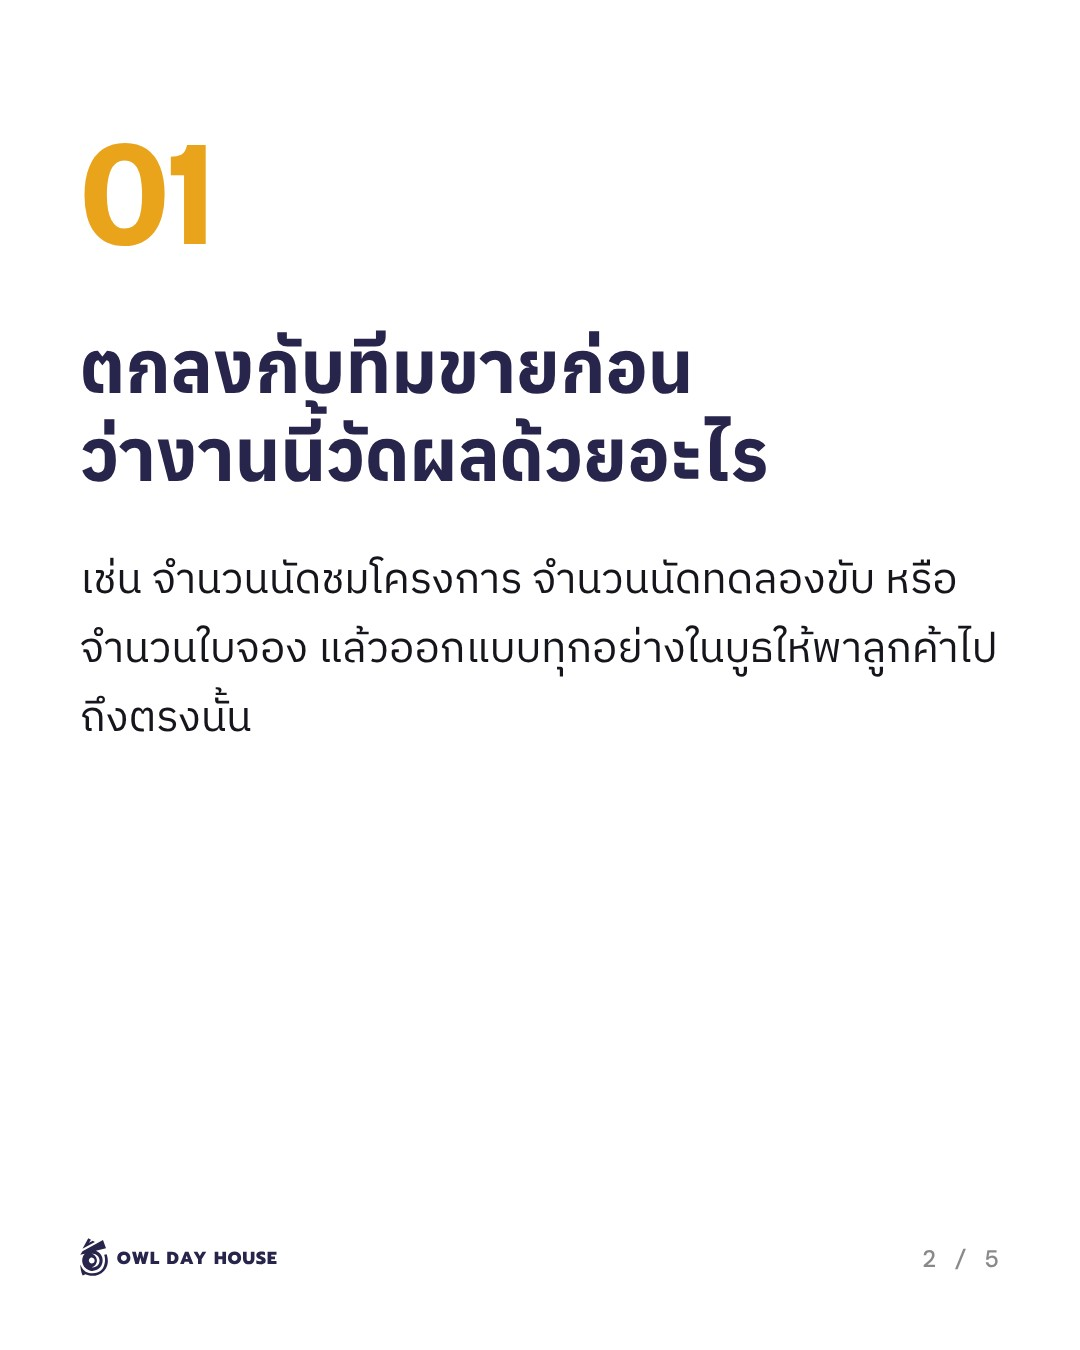
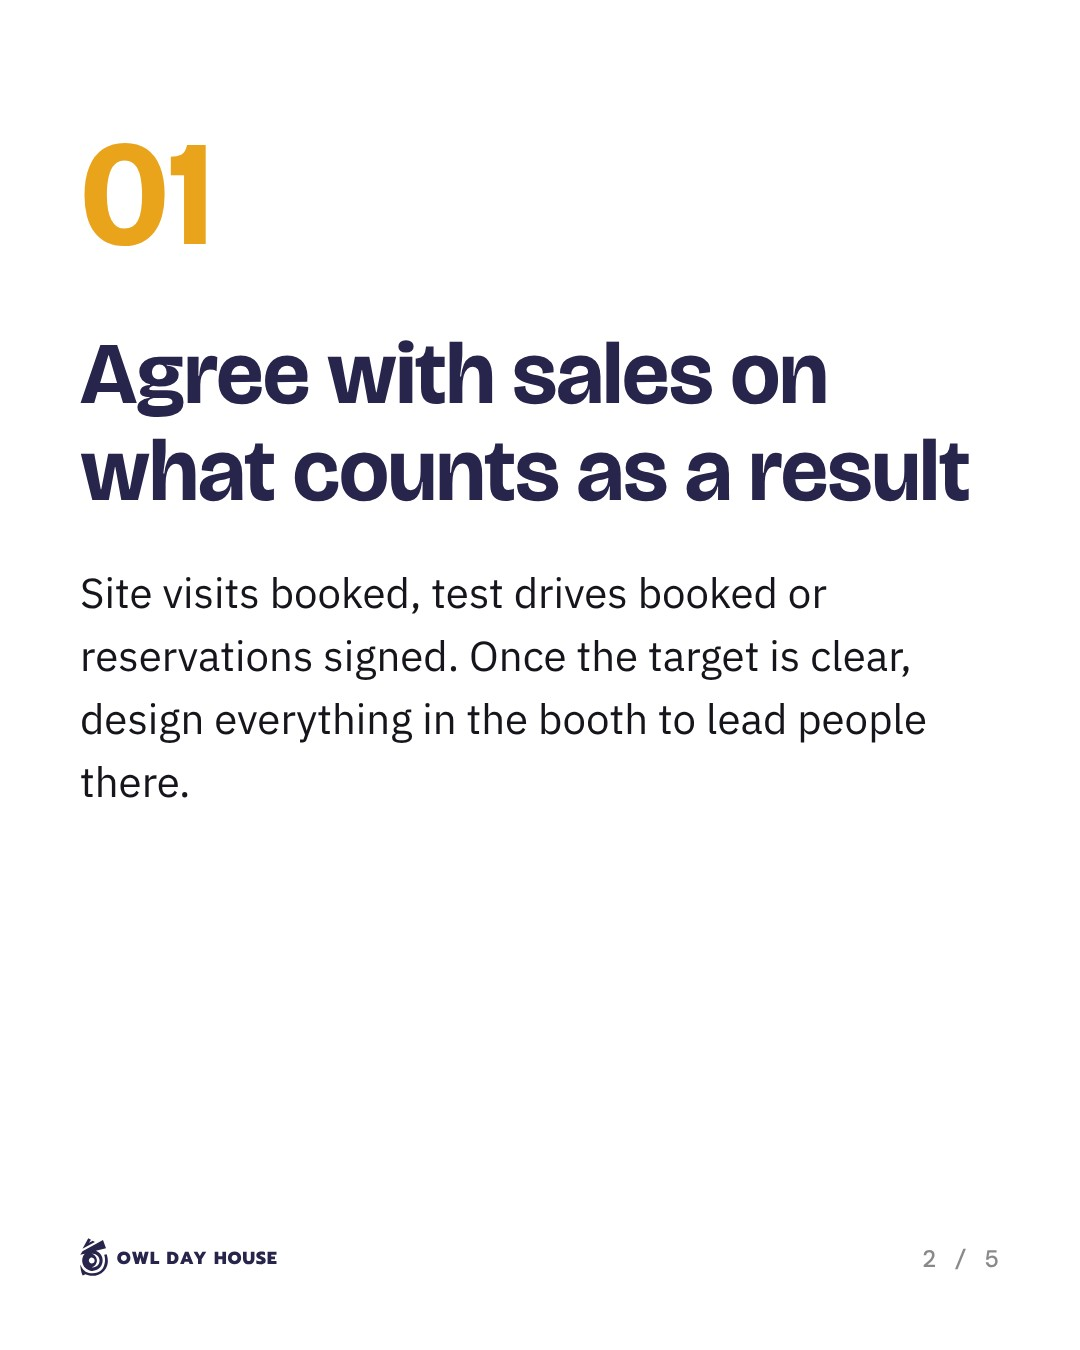
docs(social): switch the 9 Nov post to English
The slides and captions are now in English. The Thai article has no English
version, so the post links to the English Property & Automotive page, which
covers the same topic.

Claude-Session: https://claude.ai/code/session_01R7rnnCN1Fzr3dEfJVvH5fp

Changed region(s): [[0.0611, 0.4044, 0.9167, 0.5911], [0.0611, 0.2489, 0.9167, 0.3733], [0.825, 0.4044, 0.8861, 0.4356]]

diff --git a/social/2026-11-09/post.md b/social/2026-11-09/post.md
@@ -1,44 +1,45 @@
-# Post 9 Nov 2026: getting launch-event leads to sales on the day
+# Post 9 Nov 2026 (English): getting launch-event leads to sales on the day
 
 From today's article: /news/ngan-poet-tua-khrongkan-song-lead-sales/
 Images: `slide-1.jpg` to `slide-5.jpg` (1080×1350, 4:5). The same set works on Facebook (album/carousel) and on Instagram (carousel).
 The photo on slide 1 is the AI-made atmosphere photo from the article's share card. It shows no client and no real job, so do not caption it as our own work.
 
-Check that the article is already live on owldayhouse.com before posting the link.
+The Thai article has no English version, so the English post links to the Property & Automotive page, which covers the same topic: https://owldayhouse.com/en/industries/property-auto/
+Check that the page is live before posting.
 
 ---
 
 ## Facebook
 
-งานเปิดตัวโครงการหรือบูธในงาน Motor Show มีคนแวะเยอะ แต่รายชื่อที่ได้กว่าจะถึงมือเซลส์บางทีก็ผ่านไปเป็นสัปดาห์ ถึงตอนนั้นลูกค้าบางคนไปดูโครงการอื่นหรือจองรถกับดีลเลอร์อื่นไปแล้ว
+A project launch or a Motor Show booth can draw a big crowd. The leads often take a week to reach the sales team, and by then some of those people have visited another project or booked a car with another dealer.
 
-เวลาวางงานแบบนี้ ทีมเราดู 4 เรื่อง
+When we plan an event like this, we look at four things.
 
-1. ตกลงกับทีมขายก่อนว่างานนี้วัดผลด้วยอะไร เช่น จำนวนนัดชมโครงการ นัดทดลองขับ หรือใบจอง
-2. ใช้เกมบน Kiosk หรือการสุ่มรางวัลให้คนหยุดที่บูธ แล้วให้ลงทะเบียนเป็นส่วนหนึ่งของการเล่น
-3. ส่งรายชื่อเข้าระบบฝ่ายขายระหว่างงาน คนที่อยากนัดควรได้คุยกับเซลส์ในวันนั้น
-4. เก็บรายชื่อไว้ในระบบเดียวกับข้อมูลการขาย จะได้รู้ว่างานนี้ได้นัดเท่าไร ปิดการขายได้เท่าไร
+1. Agree with sales on what counts as a result: site visits booked, test drives booked or reservations signed.
+2. Use a kiosk game or a prize draw to get people to stop, and make sign-up part of playing.
+3. Send leads to the sales team during the event. Anyone who wants an appointment should hear from sales that day.
+4. Keep event leads in the same system as your sales data, so you can see how many appointments the event brought in and how many closed.
 
-อ่านฉบับเต็มได้ที่ https://owldayhouse.com/news/ngan-poet-tua-khrongkan-song-lead-sales/
+How we run launches and booths for property and automotive brands: https://owldayhouse.com/en/industries/property-auto/
 
-ถ้ากำลังวางงานเปิดตัวหรือบูธรอบหน้า ทักมาทาง Messenger หรือโทร 092-455-2450
+Planning your next launch or booth? Message us on Messenger or call +66 92 455 2450.
 
-#งานเปิดตัวโครงการ #บูธอีเวนต์ #MotorShow #OwlDayHouse
+#EventMarketing #ProjectLaunch #MotorShow #OwlDayHouse
 
 ---
 
 ## Instagram
 
-งานเปิดตัวโครงการหรือบูธ Motor Show คนแวะเยอะ แต่รายชื่อกว่าจะถึงมือเซลส์บางทีก็เป็นสัปดาห์ ถึงตอนนั้นลูกค้าบางคนตัดสินใจไปแล้ว
+A project launch or a Motor Show booth can draw a big crowd, but the leads often take a week to reach sales. By then some people have already decided.
 
-ปัดดู 4 เรื่องที่ทีมเราวางไว้ตั้งแต่ก่อนวันงาน ให้รายชื่อถึงเซลส์ภายในวันนั้น และวัดผลเป็นยอดขายได้
+Swipe for the four things we set up before the event, so leads reach sales the same day and the event can be measured in sales.
 
-อ่านบทความเต็มได้จากลิงก์ที่ bio
-ทัก DM หรือโทร 092-455-2450
+More on how we run launches and booths: link in bio.
+Send us a DM or call +66 92 455 2450.
 
-#งานเปิดตัวโครงการ #บูธอีเวนต์ #MotorShow #อีเวนต์มาร์เก็ตติ้ง #OwlDayHouse
+#EventMarketing #ProjectLaunch #MotorShow #ExperientialMarketing #OwlDayHouse
 
-Alt text for slide 1: ผู้คนในชุดทำงานยืนดูโมเดลอาคารในห้องจัดงานสีขาว พร้อมหัวข้อ รายชื่อลูกค้าจากงาน ควรถึงมือเซลส์ภายในวันงาน
+Alt text for slide 1: People in business clothes looking at an architectural model in a bright white event hall, with the headline "Get event leads to your sales team on the day".
 
 ---
 
@@ -79,6 +80,6 @@ Bangkok, Thailand
 ```
 
 **Link:** https://owldayhouse.com/en/
-On today's post day, swap the link to the article for 24 to 48 hours, then switch it back.
+For today's post, point the link to https://owldayhouse.com/en/industries/property-auto/ for 24 to 48 hours, then switch it back.
 
 **Category:** Marketing Agency
